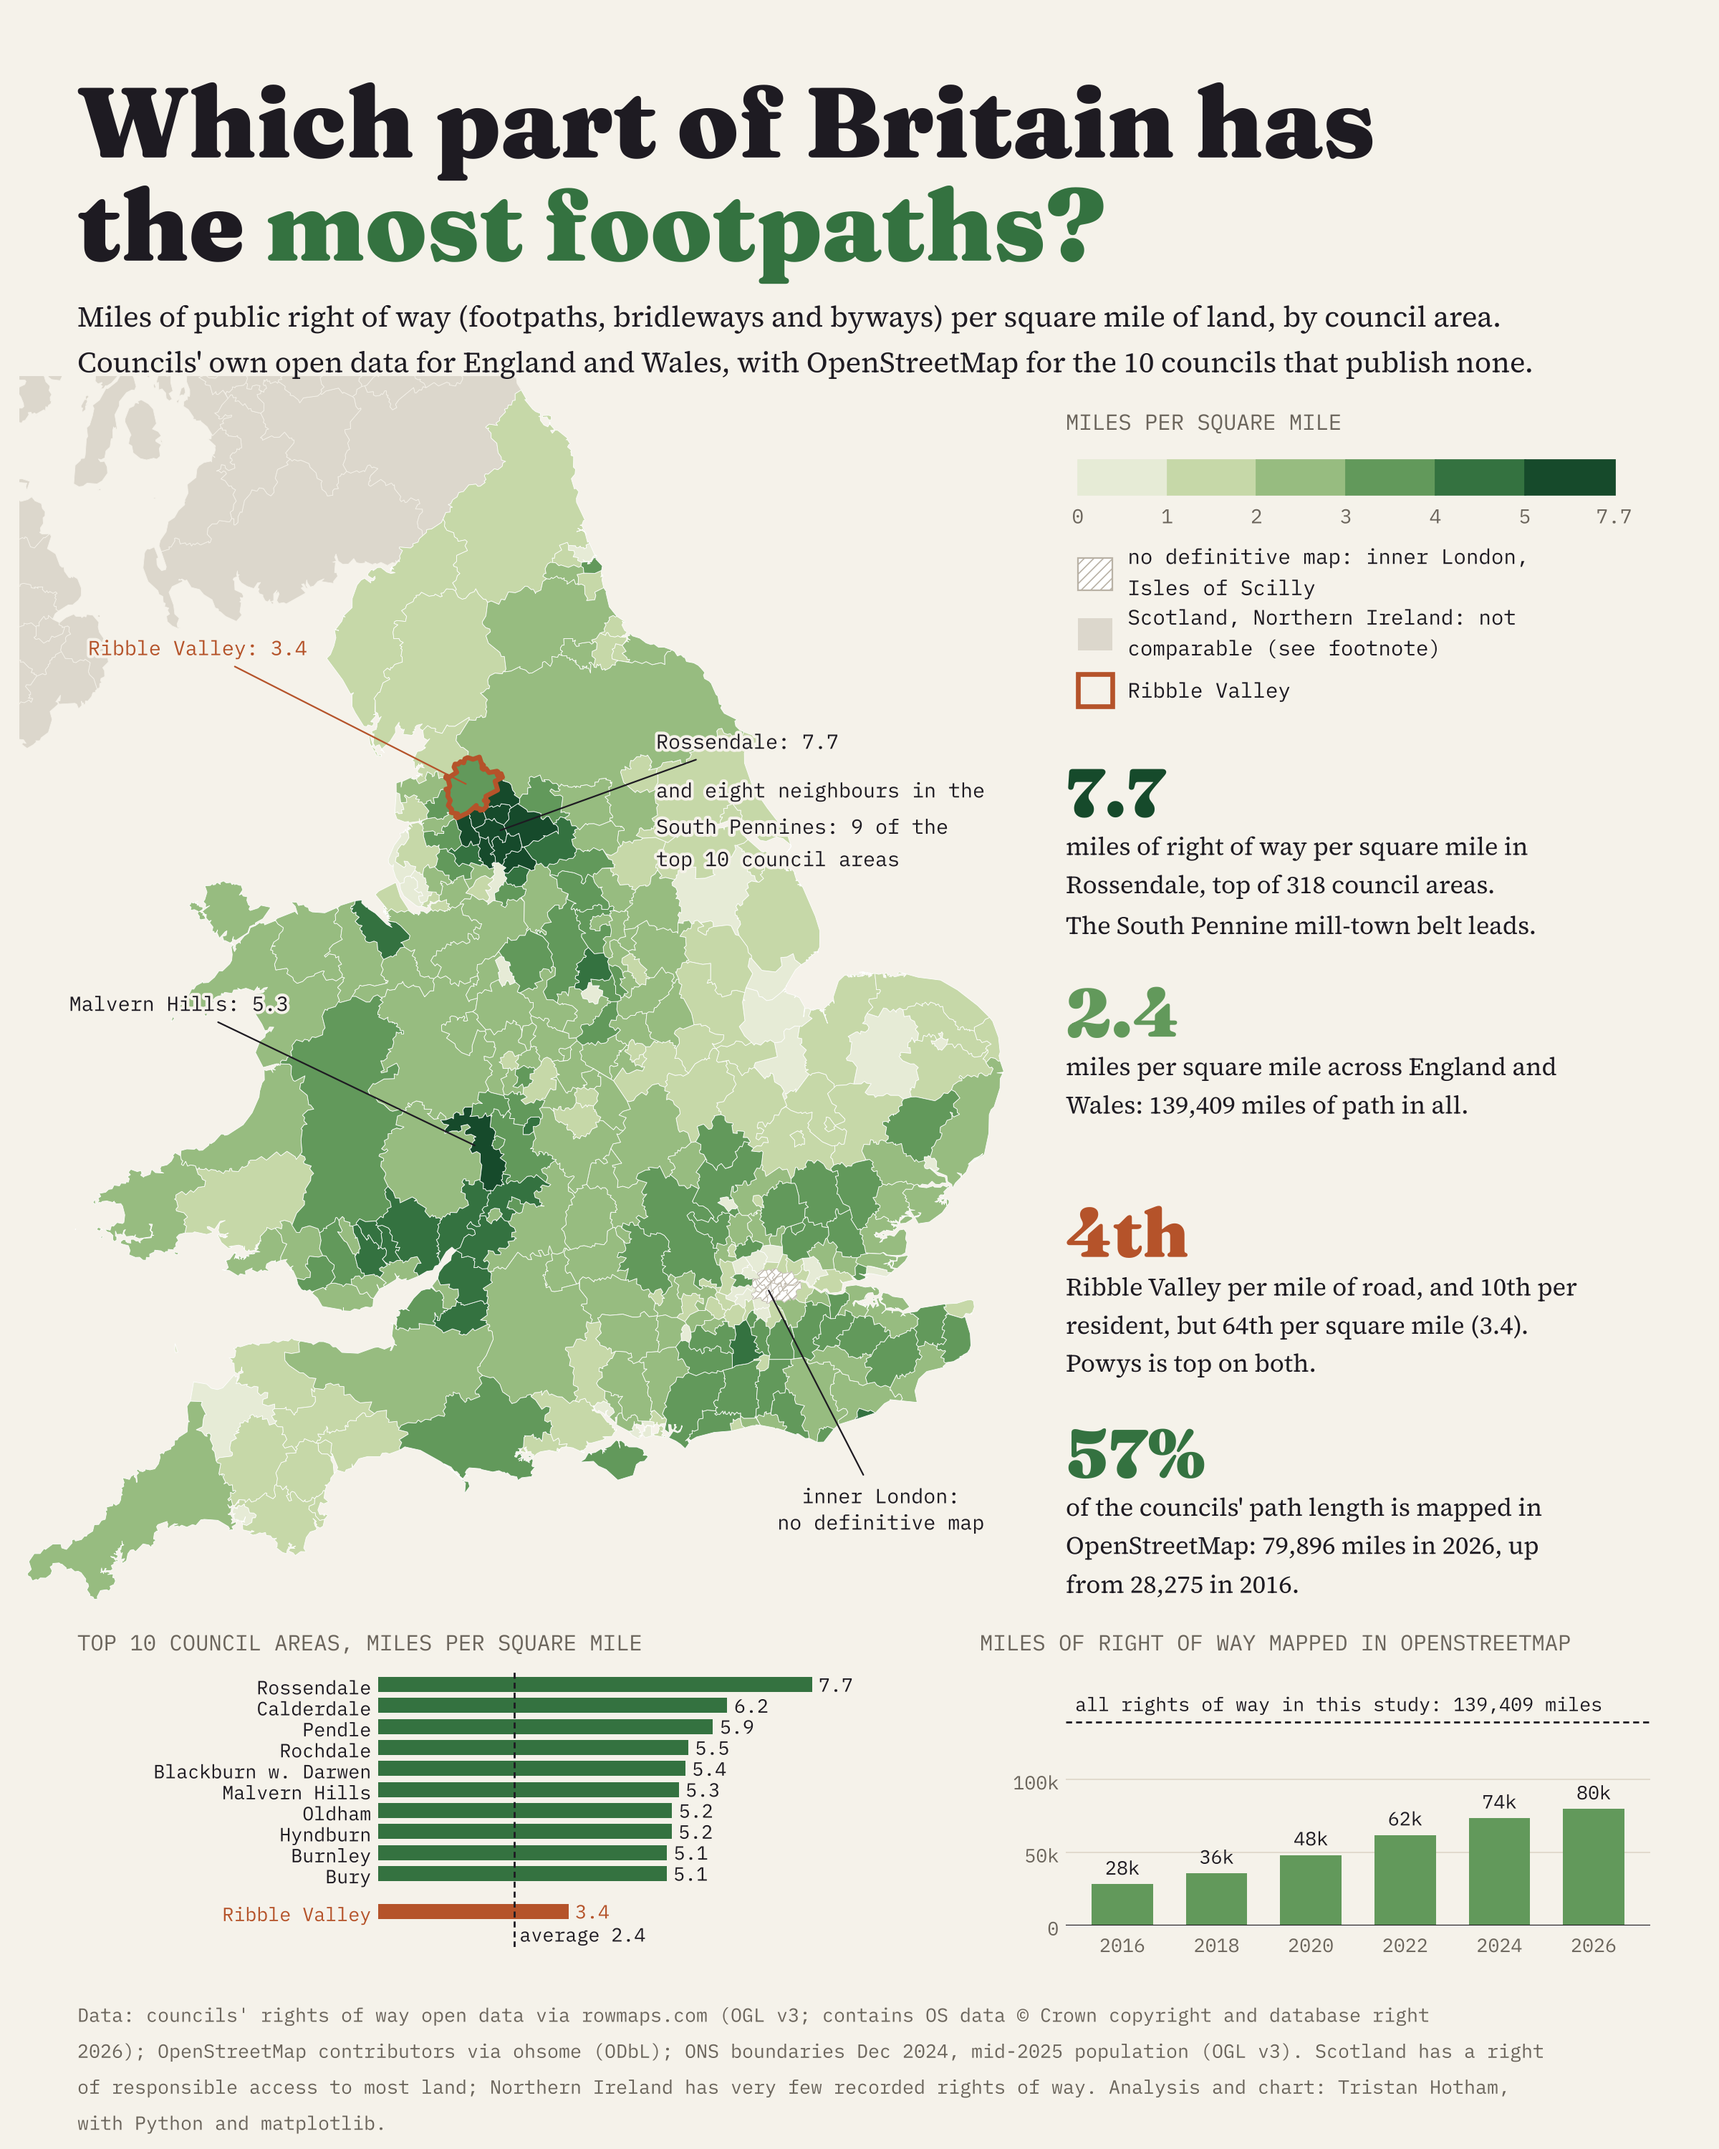
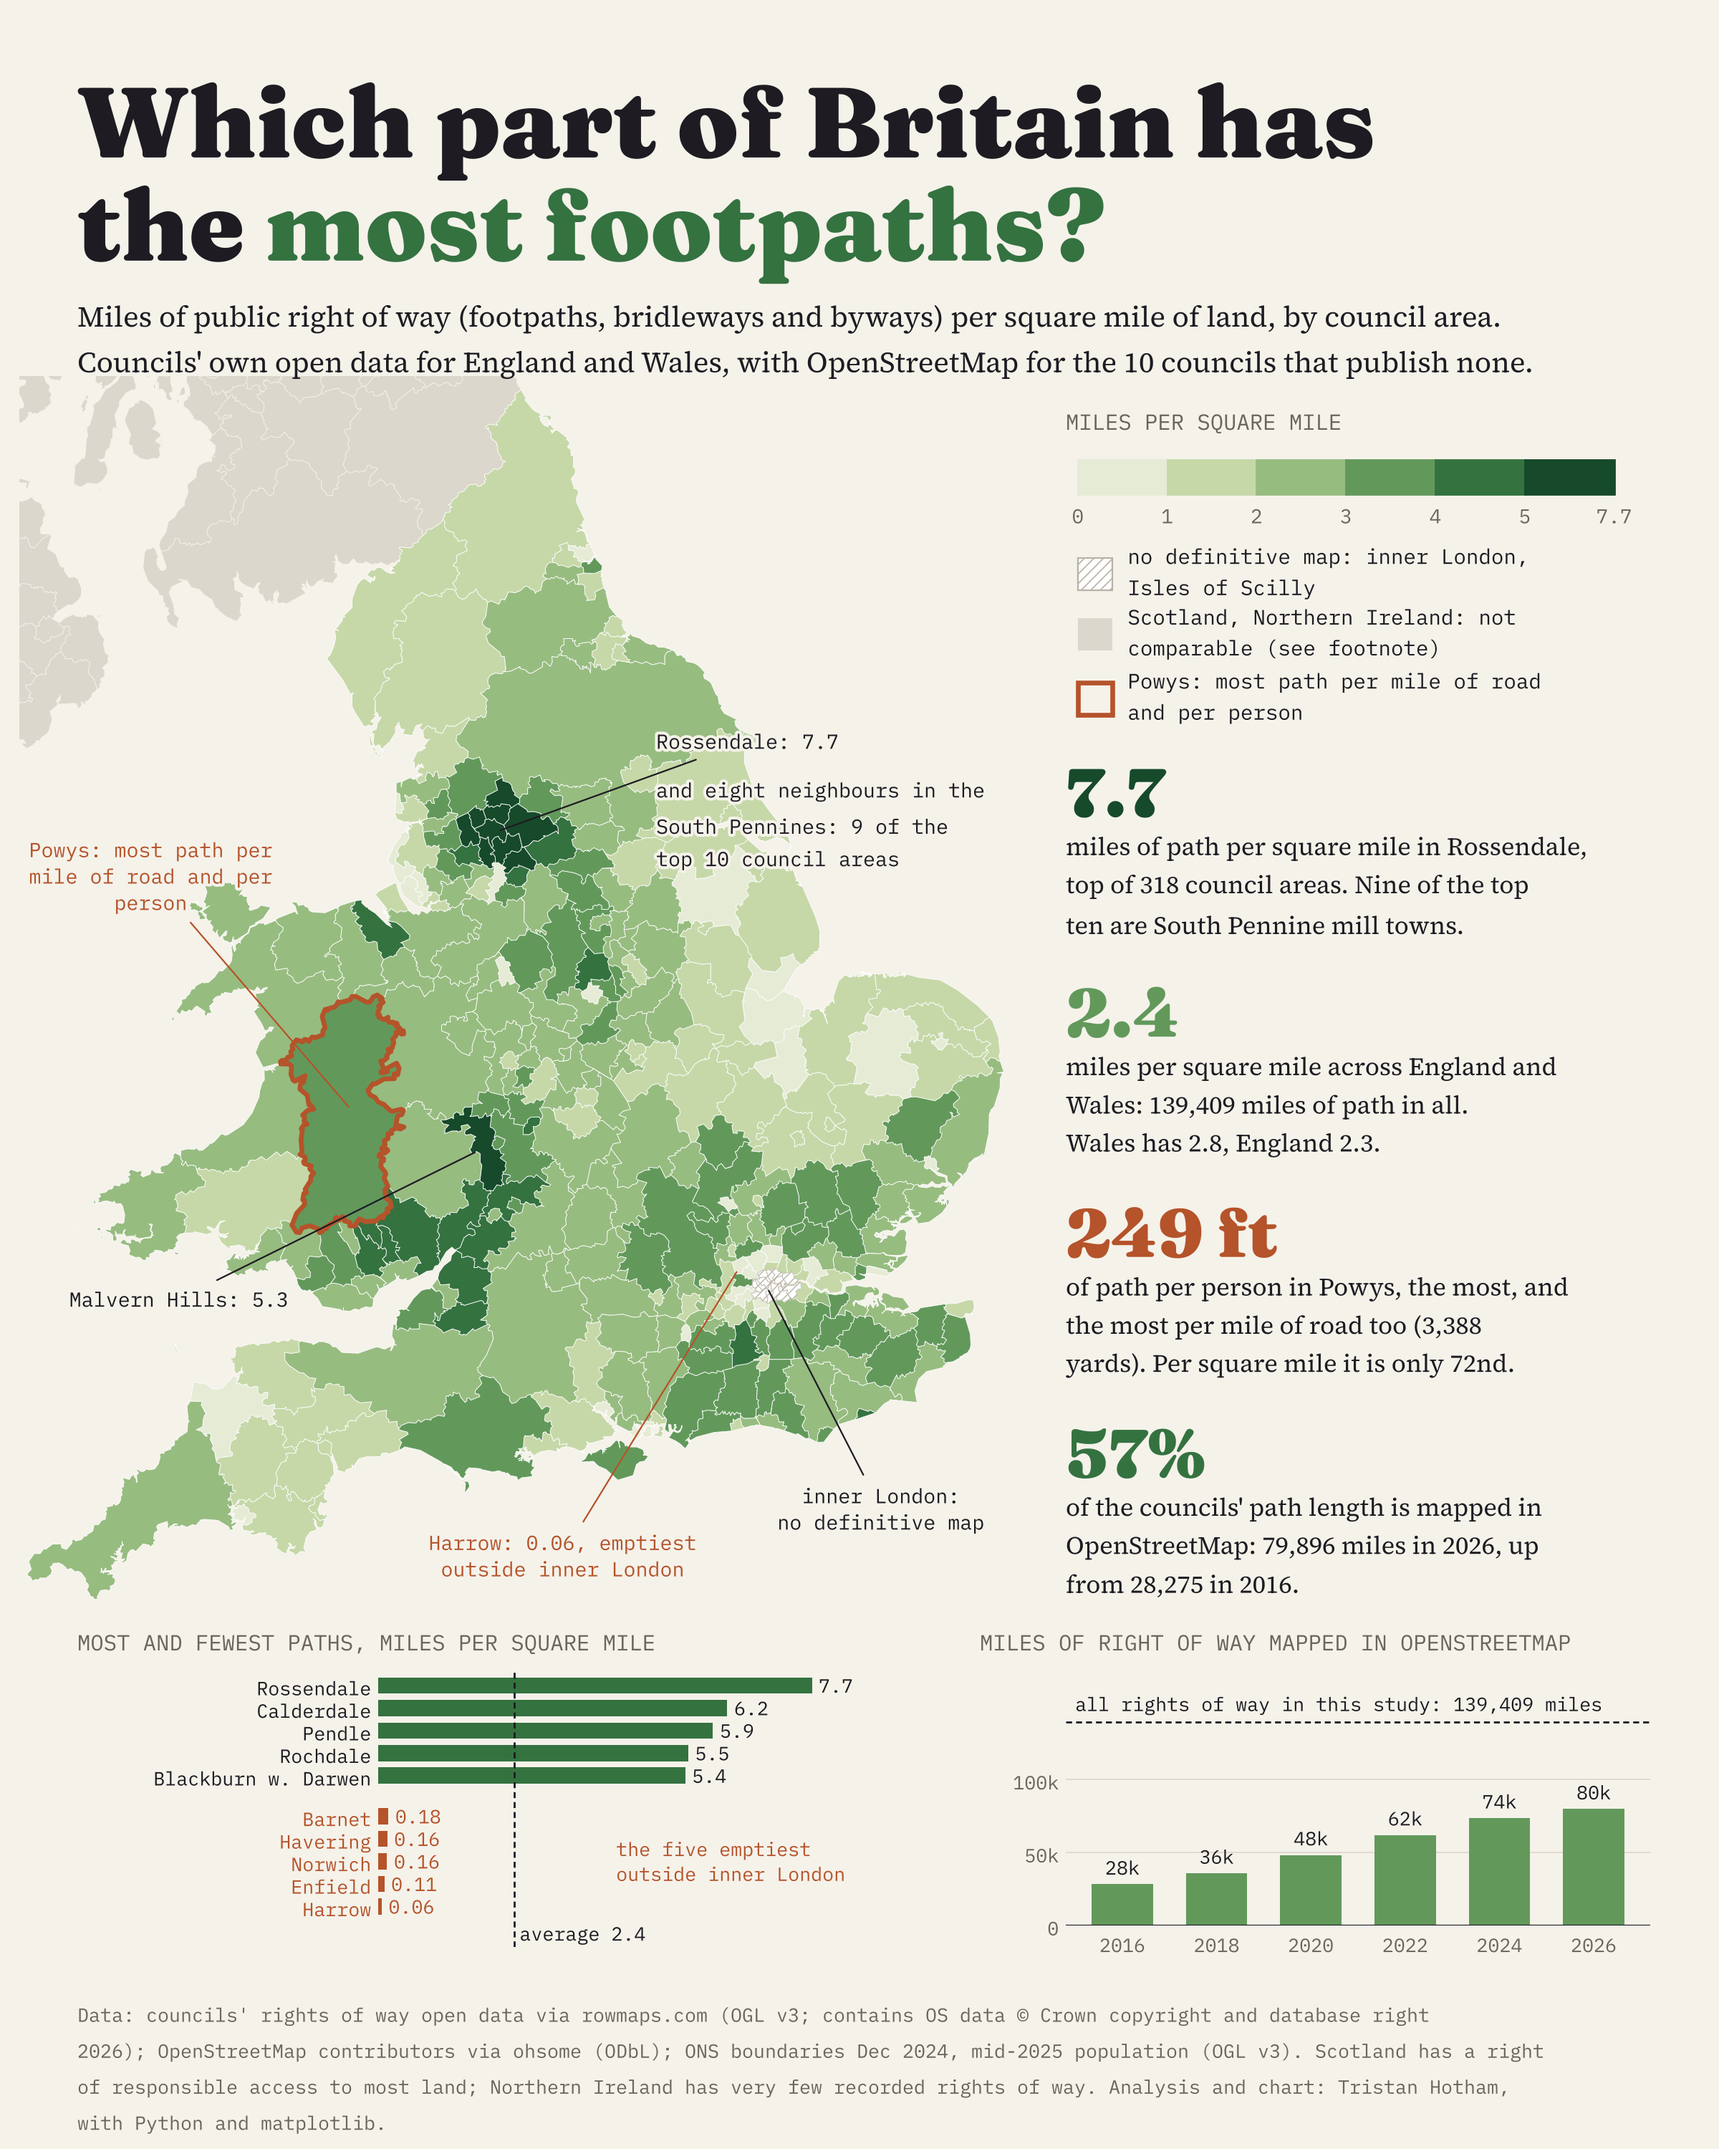
General-audience Reddit collage and post

diff --git a/reddit/collage.py b/reddit/collage.py
@@ -23,7 +23,7 @@ fig.text(0.045, 0.862, "Miles of public right of way (footpaths, bridleways and 
          family=SER, fontsize=14.5, color=FG, va="top", linespacing=1.15)
 
 ax = fig.add_axes([0.0, 0.25, 0.6, 0.575]); ax.set_facecolor(BGC)
-draw_map(ax, g, lw=0.3, rv_lw=2.4, hatch_lw=0.5)
+draw_map(ax, g, lw=0.3, out_lw=2.4, hatch_lw=0.5)
 ax.set_xlim(130, 660); ax.set_ylim(5, 665)
 
 
@@ -36,9 +36,11 @@ r1 = TOP.iloc[0]
 note(f"{r1['name']}: {fmt1(r1.prow_per_sqmi)}", rep_point(g, r1.code), (470, 470))
 ax.text(470, 452, "and eight neighbours in the\nSouth Pennines: 9 of the\ntop 10 council areas",
         family=MONO, fontsize=10.2, color=FG, va="top", zorder=8, path_effects=halo(3), linespacing=1.3)
-note(f"Ribble Valley: {fmt1(N['rv_val'])}", rep_point(g, RV), (225, 520), ha="center", col=RUST)
+note(f"{N['pw_name']}: most path per\nmile of road and per\nperson", rep_point(g, POWYS), (200, 398), ha="center", col=RUST)
+note(f"{N['low_name']}: {N['low_val']:.2f}, emptiest\noutside inner London", rep_point(g, N["low_code"]), (420, 35),
+     ha="center", col=RUST)
 mal = TOP[TOP.code == "E07000235"].iloc[0]
-note(f"{mal['name']}: {fmt1(mal.prow_per_sqmi)}", rep_point(g, mal.code), (215, 330), ha="center")
+note(f"{mal['name']}: {fmt1(mal.prow_per_sqmi)}", rep_point(g, mal.code), (215, 172), ha="center")
 note("inner London:\nno definitive map", rep_point(g, "E09000033"), (590, 60), ha="center")
 
 # key: a horizontal scale for the greens, then the three special cases
@@ -57,19 +59,21 @@ swatch(yy, NOMAP, NOMAP_HATCH, "/////", 0.8)
 fig.text(0.656, yy, "no definitive map: inner London,\nIsles of Scilly", family=MONO, fontsize=10.5, color=FG, va="center", linespacing=1.15); yy -= 0.028
 swatch(yy, GREY)
 fig.text(0.656, yy, "Scotland, Northern Ireland: not\ncomparable (see footnote)", family=MONO, fontsize=10.5, color=FG,
-         va="center", linespacing=1.15); yy -= 0.026
+         va="center", linespacing=1.15); yy -= 0.03
 swatch(yy, "none", RUST, None, 2.4)
-fig.text(0.656, yy, "Ribble Valley", family=MONO, fontsize=10.5, color=FG, va="center")
+fig.text(0.656, yy, f"{N['pw_name']}: most path per mile of road\nand per person", family=MONO, fontsize=10.5, color=FG,
+         va="center", linespacing=1.15)
 
 items = [
     (fmt1(N["top_val"]), GREENS[5],
-     f"miles of right of way per square mile in\n{N['top_name']}, top of {N['n_councils']} council areas.\n"
-     "The South Pennine mill-town belt leads."),
+     f"miles of path per square mile in {N['top_name']},\ntop of {N['n_councils']} council areas. Nine of the top\n"
+     "ten are South Pennine mill towns."),
     (fmt1(N["avg"]), GREENS[3],
-     f"miles per square mile across England and\nWales: {N['total']:,.0f} miles of path in all."),
-    (ordinal(N["rv_road"]), RUST,
-     f"Ribble Valley per mile of road, and {ordinal(N['rv_head'])} per\nresident, but {ordinal(N['rv_rank'])} per square mile "
-     f"({fmt1(N['rv_val'])}).\n{N['road_top']} is top on both."),
+     f"miles per square mile across England and\nWales: {N['total']:,.0f} miles of path in all.\n"
+     f"Wales has {fmt1(N['wales'])}, England {fmt1(N['england'])}."),
+    (f"{N['pw_ft_head']:.0f} ft", RUST,
+     f"of path per person in {N['pw_name']}, the most, and\nthe most per mile of road too ({N['pw_yd_road']:,.0f}\n"
+     f"yards). Per square mile it is only {ordinal(N['pw_rank'])}."),
     (f"{N['osm_share'] * 100:.0f}%", GREENS[4],
      f"of the councils' path length is mapped in\nOpenStreetMap: {osm[-1]:,.0f} miles in {yrs[-1]}, up\n"
      f"from {osm[0]:,.0f} in {yrs[0]}."),
@@ -78,22 +82,26 @@ assert N["road_top"] == N["head_top"]
 headlines(fig, [0.62, 0.245, 0.37, 0.41], items, big=34, step=0.25, sub_off=0.09)
 
 # bottom: top 10 and OSM by year
-label(fig, 0.045, 0.232, "TOP 10 COUNCIL AREAS, MILES PER SQUARE MILE")
+label(fig, 0.045, 0.232, "MOST AND FEWEST PATHS, MILES PER SQUARE MILE")
 a = fig.add_axes([0.22, 0.094, 0.29, 0.128]); a.set_facecolor(BGC)
-names = list(top10.name) + ["Ribble Valley"]
-vals = list(top10.prow_per_sqmi) + [N["rv_val"]]
-ys = list(range(10)) + [10.8]
-a.barh(ys, vals, color=[GREENS[4]] * 10 + [RUST], height=0.72)
-for y, v, c in zip(ys, vals, [FG] * 10 + [RUST]):
-    a.text(v + 0.12, y, fmt1(v), family=MONO, fontsize=9.6, color=c, va="center")
+low5 = BOTTOM[:5][::-1]
+names = list(top10.name[:5]) + [b["name"] for b in low5]
+vals = list(top10.prow_per_sqmi[:5]) + [b["value"] for b in low5]
+ys = list(range(5)) + [5.8 + i for i in range(5)]
+cl = [FG] * 5 + [RUST] * 5
+a.barh(ys, vals, color=[GREENS[4]] * 5 + [RUST] * 5, height=0.72)
+for y, v, c in zip(ys, vals, cl):
+    a.text(v + 0.12, y, fmt1(v) if v >= 1 else f"{v:.2f}", family=MONO, fontsize=9.6, color=c, va="center")
 a.axvline(N["avg"], color=FG, lw=1, ls=(0, (3, 2)))
-a.text(N["avg"] + 0.1, 11.9, f"average {fmt1(N['avg'])}", family=MONO, fontsize=9.6, color=FG, va="center")
+a.text(N["avg"] + 0.1, 11.0, f"average {fmt1(N['avg'])}", family=MONO, fontsize=9.6, color=FG, va="center")
 a.set_yticks(ys, [n.replace("Blackburn with Darwen", "Blackburn w. Darwen") for n in names])
-a.set_ylim(12.5, -0.6); a.set_xlim(0, 8.8); a.set_xticks([])
+a.set_ylim(11.6, -0.6); a.set_xlim(0, 8.8); a.set_xticks([])
 style_axis(a)
 for t in a.get_yticklabels():
     t.set_color(FG)
-a.get_yticklabels()[-1].set_color(RUST)
+for t in a.get_yticklabels()[5:]:
+    t.set_color(RUST)
+a.text(4.2, 7.8, "the five emptiest\noutside inner London", family=MONO, fontsize=9.6, color=RUST, va="center")
 
 label(fig, 0.57, 0.232, "MILES OF RIGHT OF WAY MAPPED IN OPENSTREETMAP")
 b = fig.add_axes([0.62, 0.104, 0.34, 0.112]); b.set_facecolor(BGC)
@@ -115,5 +123,5 @@ footer(fig, "Data: councils' rights of way open data via rowmaps.com (OGL v3; co
        "of responsible access to most land; Northern Ireland has very few recorded rights of way. Analysis and chart: Tristan Hotham,\n"
        "with Python and matplotlib.", y=0.07)
 fig.savefig(os.path.join(OUT, "footpath_capital_of_britain.png"), dpi=200, facecolor=BGC)
-print("collage", round(N["top_val"], 1), round(N["avg"], 1), round(N["total"]), N["rv_road"], N["rv_head"], N["rv_rank"],
-      round(N["rv_val"], 1), N["osm_share"], osm[0], osm[-1], [(n, round(v, 1)) for n, v in zip(names, vals)])
+print("collage", round(N["top_val"], 1), round(N["avg"], 1), round(N["total"]), round(N["pw_ft_head"]), round(N["pw_yd_road"]),
+      N["pw_rank"], N["wales"], N["england"], N["osm_share"], osm[0], osm[-1], [(n, round(v, 2)) for n, v in zip(names, vals)])

diff --git a/reddit/post.md b/reddit/post.md
@@ -4,7 +4,7 @@
 
 ## Body (optional)
 
-I added up the public rights of way (footpaths, bridleways and byways) in all 318 council areas of England and Wales, 139,409 miles in all, and divided by land area. Rossendale is top at 7.7 miles per square mile, then Calderdale (6.2), Pendle (5.9), Rochdale (5.5) and Blackburn with Darwen (5.4): nine of the top ten are South Pennine mill-town districts either side of the Lancashire and Yorkshire border, with Malvern Hills (5.3) the odd one out. Inner London boroughs have no definitive map of rights of way at all. Per mile of road and per resident, Powys comes top. OpenStreetMap holds 57% of the length in councils' own data, up from 28,275 miles mapped in 2016 to 79,896 in 2026.
+I added up the public rights of way (footpaths, bridleways and byways) in all 318 council areas of England and Wales, 139,409 miles in all, and divided by land area. Rossendale is top at 7.7 miles per square mile, then Calderdale (6.2), Pendle (5.9), Rochdale (5.5) and Blackburn with Darwen (5.4): nine of the top ten are South Pennine mill-town districts either side of the Lancashire and Yorkshire border, with Malvern Hills (5.3) the one outsider. Wales has 2.8 miles per square mile and England 2.3. It depends how you count: per person Powys comes top with 249 feet of path each, and per mile of road too (3,388 yards), though it is only 72nd per square mile. At the other end, Harrow has 0.06 miles per square mile, the fewest outside inner London, and the inner London boroughs have no definitive map of rights of way at all. OpenStreetMap holds 57% of the length in councils' own data, up from 28,275 miles mapped in 2016 to 79,896 in 2026.
 
 Caveat: 10 councils publish no open rights of way data, so OpenStreetMap fills in for them, and Scotland (right of responsible access to most land) and Northern Ireland (very few recorded rights of way) are not comparable.
 
